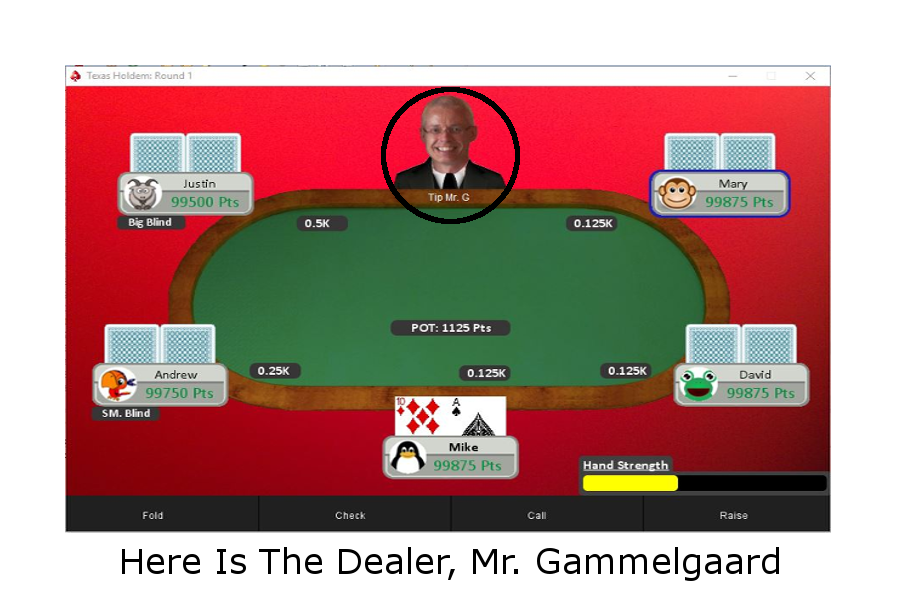
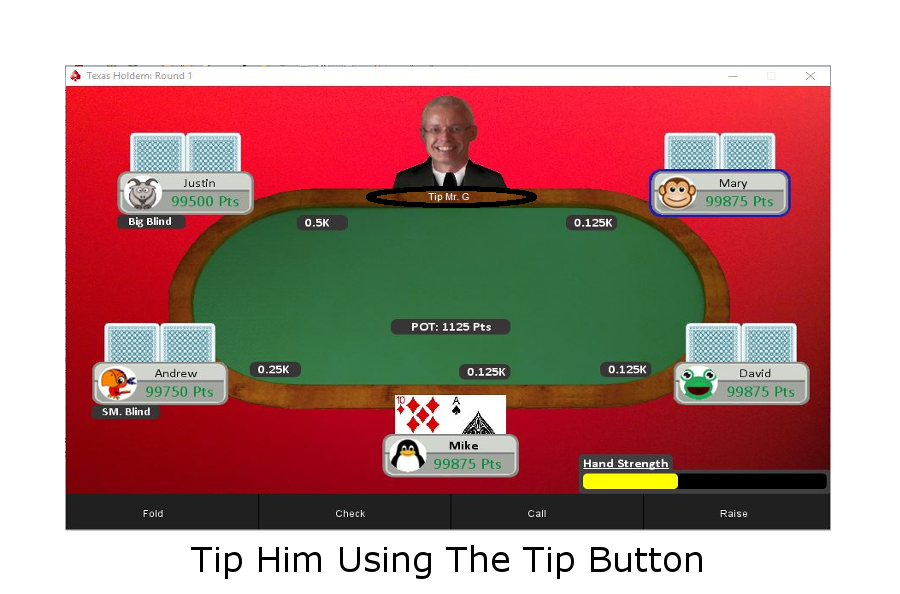
Added Up To Slide 8, Draws Which Slide Number Currently As Well

diff --git a/src/scripts/TutorialDisplay.java b/src/scripts/TutorialDisplay.java
@@ -1,5 +1,6 @@
 package scripts;
 
+import java.awt.Font;
 import java.awt.Graphics;
 import java.awt.event.ActionEvent;
 import java.awt.event.ActionListener;
@@ -24,6 +25,7 @@ public class TutorialDisplay {
 	private JPanel buttonsPanel;
 	
 	private int imageIndex = 0;
+	private String slideTitle = "";
 	
 	private class ImagesPanel extends JPanel{		
 
@@ -31,6 +33,9 @@ public class TutorialDisplay {
 
 		public void paint(Graphics g){
 			g.drawImage(loadedImages.get(imageIndex), 0, 0, null);
+			g.setFont(new Font("Times New Roman", Font.BOLD, 52));
+			slideTitle = "Slide "+ (imageIndex+1) + "/"+ loadedImages.size();
+			g.drawString(slideTitle, (900 - g.getFontMetrics().stringWidth(slideTitle))/2, 45);
 		}
 	}
 	

diff --git a/src/scripts/Runner.java b/src/scripts/Runner.java
@@ -189,7 +189,7 @@ public class Runner {
 
 		@Override
 		protected ArrayList<BufferedImage> doInBackground() throws IOException {
-			for (int i = 1; i <= 5; i++) {
+			for (int i = 1; i <= 8; i++) {
 				String path = "/tutorial/holdem-slide" + i + ".png";
 				try {
 					images.add(ImageIO.read(getClass().getResourceAsStream(path)));
